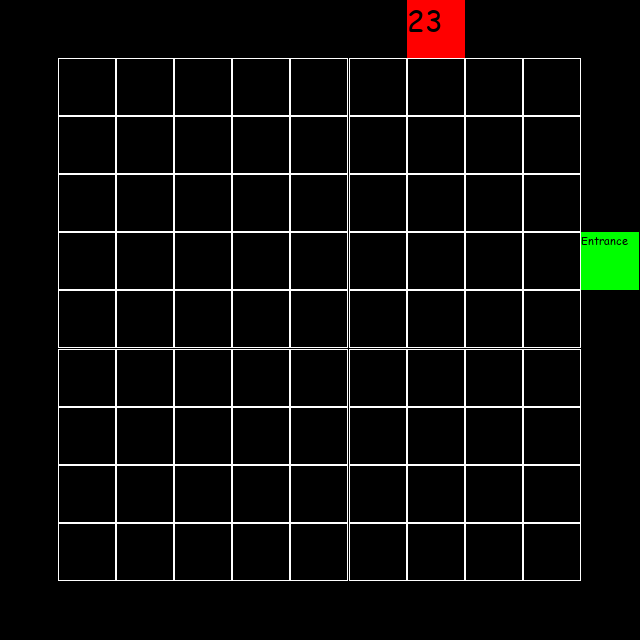
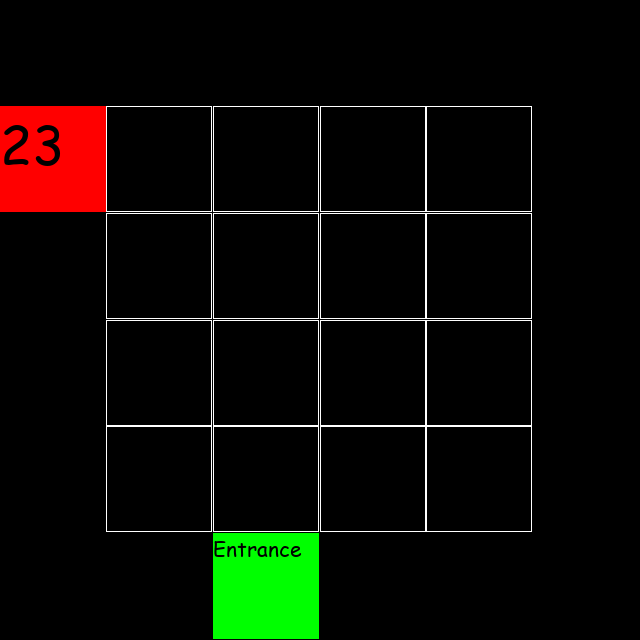
fixed a bug with the monster gen. Some monsters have a type following this pattern: 'Humanoid (Kobold)' and due to the rarity of them at times there wouldnt be any other monsters to fill resulting in an empty dataframe. Solution was to take the first bit of the type and find monsters that match that

diff --git a/main.html b/main.html
@@ -18,10 +18,10 @@
     </script>
   </head>
   <body>
-    <div id="b6012d31-44c9-430f-9b7f-01141a3428e5" data-root-id="p1001" style="display: contents;"></div>
+    <div id="de3d64b5-1575-4cbf-8bb8-1b14e3dbe031" data-root-id="p1001" style="display: contents;"></div>
   
-    <script type="application/json" id="p1071">
-      {"17966f35-40a8-4406-8019-8437ed238ae2":{"version":"3.2.1","title":"Bokeh Application","roots":[{"type":"object","name":"Figure","id":"p1001","attributes":{"x_range":{"type":"object","name":"Range1d","id":"p1011","attributes":{"start":-1.1,"end":2}},"y_range":{"type":"object","name":"Range1d","id":"p1012","attributes":{"start":-1.1,"end":2}},"x_scale":{"type":"object","name":"LinearScale","id":"p1013"},"y_scale":{"type":"object","name":"LinearScale","id":"p1014"},"title":{"type":"object","name":"Title","id":"p1004","attributes":{"text":"Dungeon Layout"}},"renderers":[{"type":"object","name":"GraphRenderer","id":"p1032","attributes":{"layout_provider":{"type":"object","name":"StaticLayoutProvider","id":"p1049","attributes":{"graph_layout":{"type":"map","entries":[[0,{"type":"ndarray","array":{"type":"bytes","data":"////////77/AWgFrBazVvw=="},"shape":[2],"dtype":"float64","order":"little"}],[1,{"type":"ndarray","array":{"type":"bytes","data":"wFoBawWsxT+qWgFrBax1Pw=="},"shape":[2],"dtype":"float64","order":"little"}],[2,{"type":"ndarray","array":{"type":"bytes","data":"lmVZlmVZxr9vscHFBhfLPw=="},"shape":[2],"dtype":"float64","order":"little"}],[3,{"type":"ndarray","array":{"type":"bytes","data":"xgYXG1xs4D/AWgFrBazVvw=="},"shape":[2],"dtype":"float64","order":"little"}],[31,{"type":"ndarray","array":{"type":"bytes","data":"rYC1AtYK2D/FmxFvRrzJvw=="},"shape":[2],"dtype":"float64","order":"little"}],[32,{"type":"ndarray","array":{"type":"bytes","data":"rYC1AtYK2D9RFEVRFEXRvw=="},"shape":[2],"dtype":"float64","order":"little"}],[21,{"type":"ndarray","array":{"type":"bytes","data":"GIZhGIZh2L8nH518dPLRPw=="},"shape":[2],"dtype":"float64","order":"little"}],[22,{"type":"ndarray","array":{"type":"bytes","data":"qT+l/pT607+WZVmWZVnWPw=="},"shape":[2],"dtype":"float64","order":"little"}],[23,{"type":"ndarray","array":{"type":"bytes","data":"EQRBEARBoD+RJEmSJEnCPw=="},"shape":[2],"dtype":"float64","order":"little"}],[231,{"type":"ndarray","array":{"type":"bytes","data":"b7HBxQYXu78nH518dPLRPw=="},"shape":[2],"dtype":"float64","order":"little"}],[11,{"type":"ndarray","array":{"type":"bytes","data":"xZsRb0a8uT9nL6G9hPayPw=="},"shape":[2],"dtype":"float64","order":"little"}],[12,{"type":"ndarray","array":{"type":"bytes","data":"nud5nud5zj/nDpk7ZO7Avw=="},"shape":[2],"dtype":"float64","order":"little"}],[13,{"type":"ndarray","array":{"type":"bytes","data":"wFoBawWsxT8RBEEQBEGwvw=="},"shape":[2],"dtype":"float64","order":"little"}]]}}},"node_renderer":{"type":"object","name":"GlyphRenderer","id":"p1037","attributes":{"data_source":{"type":"object","name":"ColumnDataSource","id":"p1034","attributes":{"selected":{"type":"object","name":"Selection","id":"p1035","attributes":{"indices":[],"line_indices":[]}},"selection_policy":{"type":"object","name":"UnionRenderers","id":"p1036"},"data":{"type":"map","entries":[["index",[0,1,2,3,31,32,21,22,23,231,11,12,13]],["x",[-0.9999999999999999,0.1693121693121693,-0.1746031746031746,0.5132275132275133,0.37566137566137564,0.37566137566137564,-0.38095238095238093,-0.31216931216931215,0.03174603174603175,-0.1058201058201058,0.10052910052910054,0.23809523809523808,0.1693121693121693]],["y",[-0.3386243386243386,0.005291005291005272,0.2116402116402116,-0.3386243386243386,-0.20105820105820107,-0.2698412698412698,0.2804232804232804,0.3492063492063492,0.14285714285714282,0.2804232804232804,0.07407407407407406,-0.1322751322751323,-0.0634920634920635]]]}}},"view":{"type":"object","name":"CDSView","id":"p1038","attributes":{"filter":{"type":"object","name":"AllIndices","id":"p1039"}}},"glyph":{"type":"object","name":"Circle","id":"p1050","attributes":{"size":{"type":"value","value":20},"fill_color":{"type":"value","value":"white"}}}}},"edge_renderer":{"type":"object","name":"GlyphRenderer","id":"p1044","attributes":{"data_source":{"type":"object","name":"ColumnDataSource","id":"p1041","attributes":{"selected":{"type":"object","name":"Selection","id":"p1042","attributes":{"indices":[],"line_indices":[]}},"selection_policy":{"type":"object","name":"UnionRenderers","id":"p1043"},"data":{"type":"map","entries":[["start",[0,0,0,1,1,1,1,2,2,2,3,3,31,23,23,11]],["end",[1,2,3,11,12,13,31,21,22,23,31,32,1,231,11,23]]]}}},"view":{"type":"object","name":"CDSView","id":"p1045","attributes":{"filter":{"type":"object","name":"AllIndices","id":"p1046"}}},"glyph":{"type":"object","name":"MultiLine","id":"p1040"}}},"selection_policy":{"type":"object","name":"NodesOnly","id":"p1047"},"inspection_policy":{"type":"object","name":"NodesOnly","id":"p1048"}}}],"toolbar":{"type":"object","name":"Toolbar","id":"p1010","attributes":{"tools":[{"type":"object","name":"PanTool","id":"p1025"},{"type":"object","name":"WheelZoomTool","id":"p1026"},{"type":"object","name":"BoxZoomTool","id":"p1027","attributes":{"overlay":{"type":"object","name":"BoxAnnotation","id":"p1028","attributes":{"syncable":false,"level":"overlay","visible":false,"left_units":"canvas","right_units":"canvas","bottom_units":"canvas","top_units":"canvas","line_color":"black","line_alpha":1.0,"line_width":2,"line_dash":[4,4],"fill_color":"lightgrey","fill_alpha":0.5}}}},{"type":"object","name":"SaveTool","id":"p1029"},{"type":"object","name":"ResetTool","id":"p1030"},{"type":"object","name":"HelpTool","id":"p1031"}]}},"left":[{"type":"object","name":"LinearAxis","id":"p1020","attributes":{"ticker":{"type":"object","name":"BasicTicker","id":"p1021","attributes":{"mantissas":[1,2,5]}},"formatter":{"type":"object","name":"BasicTickFormatter","id":"p1022"},"axis_label":"Y","major_label_policy":{"type":"object","name":"AllLabels","id":"p1023"}}}],"below":[{"type":"object","name":"LinearAxis","id":"p1015","attributes":{"ticker":{"type":"object","name":"BasicTicker","id":"p1016","attributes":{"mantissas":[1,2,5]}},"formatter":{"type":"object","name":"BasicTickFormatter","id":"p1017"},"axis_label":"X","major_label_policy":{"type":"object","name":"AllLabels","id":"p1018"}}}],"center":[{"type":"object","name":"Grid","id":"p1019","attributes":{"axis":{"id":"p1015"}}},{"type":"object","name":"Grid","id":"p1024","attributes":{"dimension":1,"axis":{"id":"p1020"}}},{"type":"object","name":"LabelSet","id":"p1054","attributes":{"source":{"type":"object","name":"ColumnDataSource","id":"p1051","attributes":{"selected":{"type":"object","name":"Selection","id":"p1052","attributes":{"indices":[],"line_indices":[]}},"selection_policy":{"type":"object","name":"UnionRenderers","id":"p1053"},"data":{"type":"map","entries":[["x",[-0.9999999999999999,0.1693121693121693,-0.1746031746031746,0.5132275132275133,0.37566137566137564,0.37566137566137564,-0.38095238095238093,-0.31216931216931215,0.03174603174603175,-0.1058201058201058,0.10052910052910054,0.23809523809523808,0.1693121693121693]],["y",[-0.3386243386243386,0.005291005291005272,0.2116402116402116,-0.3386243386243386,-0.20105820105820107,-0.2698412698412698,0.2804232804232804,0.3492063492063492,0.14285714285714282,0.2804232804232804,0.07407407407407406,-0.1322751322751323,-0.0634920634920635]],["name",[0,1,2,3,31,32,21,22,23,231,11,12,13]]]}}},"x":{"type":"field","field":"x"},"y":{"type":"field","field":"y"},"text":{"type":"field","field":"name"},"text_color":{"type":"value","value":"black"},"text_font_size":{"type":"value","value":"10pt"},"text_align":{"type":"value","value":"center"},"text_baseline":{"type":"value","value":"middle"}}}]}}]}}
+    <script type="application/json" id="p1067">
+      {"50413017-7d20-4e67-ac09-d88a64cd6639":{"version":"3.2.1","title":"Bokeh Application","roots":[{"type":"object","name":"Figure","id":"p1001","attributes":{"x_range":{"type":"object","name":"Range1d","id":"p1011","attributes":{"start":-1.1,"end":2}},"y_range":{"type":"object","name":"Range1d","id":"p1012","attributes":{"start":-1.1,"end":2}},"x_scale":{"type":"object","name":"LinearScale","id":"p1013"},"y_scale":{"type":"object","name":"LinearScale","id":"p1014"},"title":{"type":"object","name":"Title","id":"p1004","attributes":{"text":"Dungeon Layout"}},"renderers":[{"type":"object","name":"GraphRenderer","id":"p1032","attributes":{"layout_provider":{"type":"object","name":"StaticLayoutProvider","id":"p1049","attributes":{"graph_layout":{"type":"map","entries":[[0,{"type":"ndarray","array":{"type":"bytes","data":"AAAAAAAA8L9z7cBcOzDXvw=="},"shape":[2],"dtype":"float64","order":"little"}],[1,{"type":"ndarray","array":{"type":"bytes","data":"pje96U1v6j9z7cBcOzDXvw=="},"shape":[2],"dtype":"float64","order":"little"}],[2,{"type":"ndarray","array":{"type":"bytes","data":"XiELWchCpj9HiZ9R4mfEPw=="},"shape":[2],"dtype":"float64","order":"little"}],[21,{"type":"ndarray","array":{"type":"bytes","data":"ZSELWchC1r8p8TNK/IzSPw=="},"shape":[2],"dtype":"float64","order":"little"}],[22,{"type":"ndarray","array":{"type":"bytes","data":"vulNb3rTy7+uHZhrB+baPw=="},"shape":[2],"dtype":"float64","order":"little"}],[23,{"type":"ndarray","array":{"type":"bytes","data":"YyELWchCxj/egbl2YK6dPw=="},"shape":[2],"dtype":"float64","order":"little"}],[231,{"type":"ndarray","array":{"type":"bytes","data":"YyELWchCxj+eUeJnlPi5vw=="},"shape":[2],"dtype":"float64","order":"little"}],[11,{"type":"ndarray","array":{"type":"bytes","data":"XiELWchCpj/agbl2YK7Nvw=="},"shape":[2],"dtype":"float64","order":"little"}],[12,{"type":"ndarray","array":{"type":"bytes","data":"N73pTW960z9HiZ9R4mfEPw=="},"shape":[2],"dtype":"float64","order":"little"}]]}}},"node_renderer":{"type":"object","name":"GlyphRenderer","id":"p1037","attributes":{"data_source":{"type":"object","name":"ColumnDataSource","id":"p1034","attributes":{"selected":{"type":"object","name":"Selection","id":"p1035","attributes":{"indices":[],"line_indices":[]}},"selection_policy":{"type":"object","name":"UnionRenderers","id":"p1036"},"data":{"type":"map","entries":[["index",[0,1,2,21,22,23,231,11,12]],["x",[-1.0,0.826086956521739,0.043478260869565175,-0.3478260869565218,-0.2173913043478261,0.17391304347826084,0.17391304347826084,0.043478260869565175,0.3043478260869565]],["y",[-0.36231884057971014,-0.36231884057971014,0.15942028985507248,0.2898550724637681,0.42028985507246375,0.028985507246376822,-0.10144927536231882,-0.23188405797101447,0.15942028985507248]]]}}},"view":{"type":"object","name":"CDSView","id":"p1038","attributes":{"filter":{"type":"object","name":"AllIndices","id":"p1039"}}},"glyph":{"type":"object","name":"Circle","id":"p1050","attributes":{"size":{"type":"value","value":20},"fill_color":{"type":"value","value":"white"}}}}},"edge_renderer":{"type":"object","name":"GlyphRenderer","id":"p1044","attributes":{"data_source":{"type":"object","name":"ColumnDataSource","id":"p1041","attributes":{"selected":{"type":"object","name":"Selection","id":"p1042","attributes":{"indices":[],"line_indices":[]}},"selection_policy":{"type":"object","name":"UnionRenderers","id":"p1043"},"data":{"type":"map","entries":[["start",[0,0,1,1,1,2,2,2,23,23,23,11]],["end",[1,2,11,12,23,21,22,23,231,1,11,23]]]}}},"view":{"type":"object","name":"CDSView","id":"p1045","attributes":{"filter":{"type":"object","name":"AllIndices","id":"p1046"}}},"glyph":{"type":"object","name":"MultiLine","id":"p1040"}}},"selection_policy":{"type":"object","name":"NodesOnly","id":"p1047"},"inspection_policy":{"type":"object","name":"NodesOnly","id":"p1048"}}}],"toolbar":{"type":"object","name":"Toolbar","id":"p1010","attributes":{"tools":[{"type":"object","name":"PanTool","id":"p1025"},{"type":"object","name":"WheelZoomTool","id":"p1026"},{"type":"object","name":"BoxZoomTool","id":"p1027","attributes":{"overlay":{"type":"object","name":"BoxAnnotation","id":"p1028","attributes":{"syncable":false,"level":"overlay","visible":false,"left_units":"canvas","right_units":"canvas","bottom_units":"canvas","top_units":"canvas","line_color":"black","line_alpha":1.0,"line_width":2,"line_dash":[4,4],"fill_color":"lightgrey","fill_alpha":0.5}}}},{"type":"object","name":"SaveTool","id":"p1029"},{"type":"object","name":"ResetTool","id":"p1030"},{"type":"object","name":"HelpTool","id":"p1031"}]}},"left":[{"type":"object","name":"LinearAxis","id":"p1020","attributes":{"ticker":{"type":"object","name":"BasicTicker","id":"p1021","attributes":{"mantissas":[1,2,5]}},"formatter":{"type":"object","name":"BasicTickFormatter","id":"p1022"},"axis_label":"Y","major_label_policy":{"type":"object","name":"AllLabels","id":"p1023"}}}],"below":[{"type":"object","name":"LinearAxis","id":"p1015","attributes":{"ticker":{"type":"object","name":"BasicTicker","id":"p1016","attributes":{"mantissas":[1,2,5]}},"formatter":{"type":"object","name":"BasicTickFormatter","id":"p1017"},"axis_label":"X","major_label_policy":{"type":"object","name":"AllLabels","id":"p1018"}}}],"center":[{"type":"object","name":"Grid","id":"p1019","attributes":{"axis":{"id":"p1015"}}},{"type":"object","name":"Grid","id":"p1024","attributes":{"dimension":1,"axis":{"id":"p1020"}}},{"type":"object","name":"LabelSet","id":"p1054","attributes":{"source":{"type":"object","name":"ColumnDataSource","id":"p1051","attributes":{"selected":{"type":"object","name":"Selection","id":"p1052","attributes":{"indices":[],"line_indices":[]}},"selection_policy":{"type":"object","name":"UnionRenderers","id":"p1053"},"data":{"type":"map","entries":[["x",[-1.0,0.826086956521739,0.043478260869565175,-0.3478260869565218,-0.2173913043478261,0.17391304347826084,0.17391304347826084,0.043478260869565175,0.3043478260869565]],["y",[-0.36231884057971014,-0.36231884057971014,0.15942028985507248,0.2898550724637681,0.42028985507246375,0.028985507246376822,-0.10144927536231882,-0.23188405797101447,0.15942028985507248]],["name",[0,1,2,21,22,23,231,11,12]]]}}},"x":{"type":"field","field":"x"},"y":{"type":"field","field":"y"},"text":{"type":"field","field":"name"},"text_color":{"type":"value","value":"black"},"text_font_size":{"type":"value","value":"10pt"},"text_align":{"type":"value","value":"center"},"text_baseline":{"type":"value","value":"middle"}}}]}}]}}
     </script>
     <script type="text/javascript">
       (function() {
@@ -29,8 +29,8 @@
           Bokeh.safely(function() {
             (function(root) {
               function embed_document(root) {
-              const docs_json = document.getElementById('p1071').textContent;
-              const render_items = [{"docid":"17966f35-40a8-4406-8019-8437ed238ae2","roots":{"p1001":"b6012d31-44c9-430f-9b7f-01141a3428e5"},"root_ids":["p1001"]}];
+              const docs_json = document.getElementById('p1067').textContent;
+              const render_items = [{"docid":"50413017-7d20-4e67-ac09-d88a64cd6639","roots":{"p1001":"de3d64b5-1575-4cbf-8bb8-1b14e3dbe031"},"root_ids":["p1001"]}];
               root.Bokeh.embed.embed_items(docs_json, render_items);
               }
               if (root.Bokeh !== undefined) {

diff --git a/dungeon_files/monsters.py b/dungeon_files/monsters.py
@@ -10,7 +10,7 @@ class RoomMonsters():
         as well as the type of boss that oversees the dungeon. 
         """
 
-        self.boss_monster_type = boss_monster_type
+        self.boss_type = boss_monster_type
         self.difficulty = difficulty
 
         self.monster_list = self.generate_monsters()
@@ -25,18 +25,20 @@ class RoomMonsters():
         # 2. The monster must be within the difficulty range of the room.
 
         # Step 1: Read the CSV file into a pandas DataFrame
-        df = pd.read_csv('data/Bestiary.csv')
+        df_init = pd.read_csv('data/Bestiary.csv')
 
         # filter for the boss type
-        df = df[df['Type'].str.contains(self.boss_monster_type, na=False)]
+        df = df_init[df_init['Type'].str.contains(self.boss_type, na=False, regex=False)]
 
         # filter for the difficulty
         df = df[df['CR'] <= self.difficulty]
 
 
         if df.empty:
-            print("No monsters found.")
-            return None
+            boss_type = self.boss_type.split()[0]
+            df = df_init[df_init['Type'].str.contains(boss_type, na=False, regex=False)]
+            df = df[df['CR'] <= self.difficulty]
+
 
         # Step 3: Randomly select a monster from the filtered DataFrame.
         # 4 monsters of the self.difficulty level can be chosen. 
@@ -73,18 +75,19 @@ class RoomBoss():
 
 
         # Step 1: Read the CSV file into a pandas DataFrame
-        df = pd.read_csv('data/Bestiary.csv')
+        df_init = pd.read_csv('data/Bestiary.csv')
 
         # filter for the boss type
-        df = df[df['Type'].str.contains(self.boss_type, na=False)]
+        df = df_init[df_init['Type'].str.contains(self.boss_type, na=False, regex=False)]
 
         # filter for the difficulty
-        df = df[df['CR'] == self.difficulty]
+        df = df[df['CR'] <= self.difficulty]
 
 
         if df.empty:
-            print("No monsters found.")
-            return None
+            boss_type = self.boss_type.split()[0]
+            df = df_init[df_init['Type'].str.contains(boss_type, na=False, regex=False)]
+            df = df[df['CR'] <= self.difficulty]
 
         num_minions = random.randint(1, self.difficulty)
         minions = []
